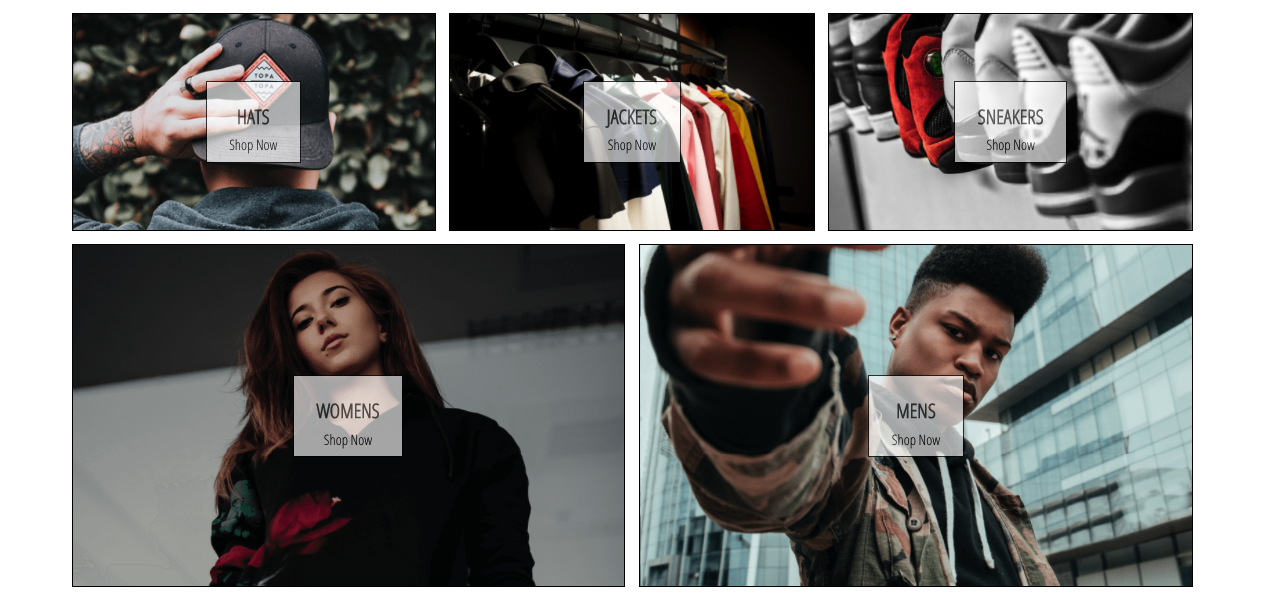
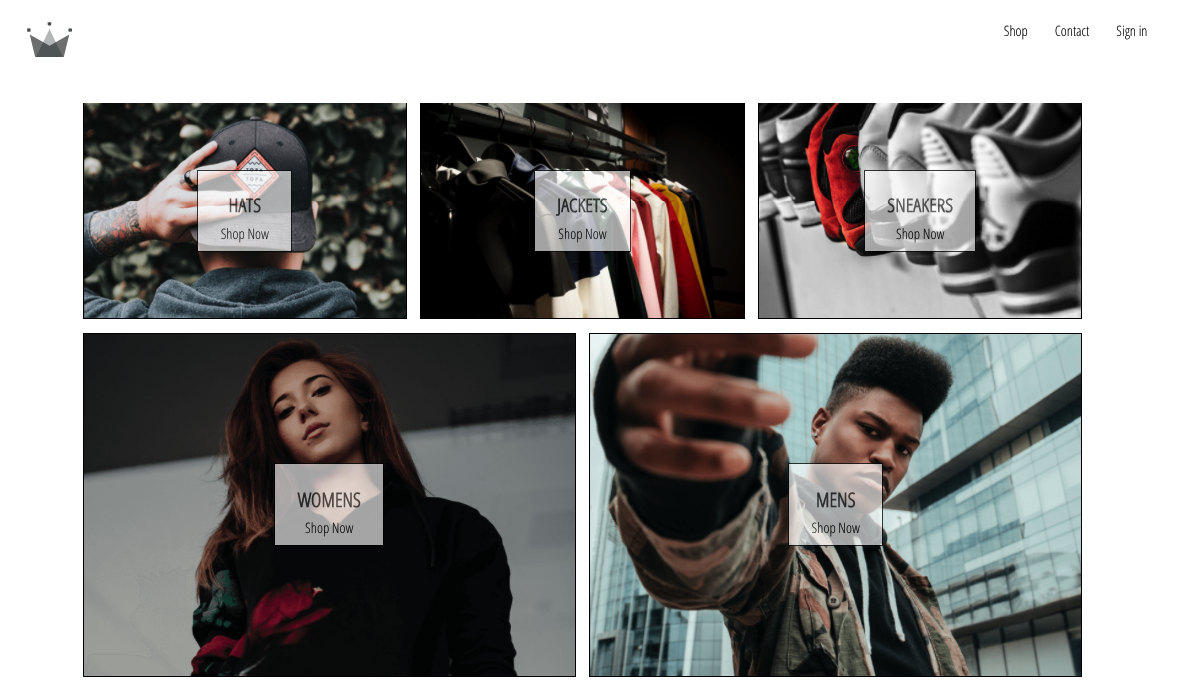
authentication features

diff --git a/src/components/sign-in/sign-in.component.jsx b/src/components/sign-in/sign-in.component.jsx
@@ -1,0 +1,51 @@
+import React from 'react';
+
+import './sign-in.styles.scss';
+
+class SignIn extends React.Component {
+    constructor(props) {
+        super(props);
+
+        this.state = {
+            email: '',
+            password: ''
+        }
+    }
+
+    handleSubmit = (event) => {
+        event.preventDefault();
+        this.setState({ email: '', password: '' })
+    }
+
+    handleChange = (event) => {
+        const {value, name}  = event.target;
+        this.setState({ [name]: value })
+    }
+
+    render(){
+        return (
+            <div className='sign-in'>
+                <h2>I already have an account</h2>
+                <span>Sign in with your email and password</span>
+
+                <form onSubmit={this.handleSubmit}>
+                    <input 
+                        name='email' value={this.state.email} 
+                        required onChange={this.handleChange}
+                    />
+                    <label>Email</label>
+                    
+                    <input 
+                        name='password' value={this.state.password} 
+                        required onChange={this.handleChange}
+                    />
+                    <label>Password</label>
+
+                    <input type='submit' value='Submit Form' />
+                </form>
+            </div>
+        )
+    }
+}
+
+export default SignIn;

diff --git a/src/components/form-input/form-input.styles.scss b/src/components/form-input/form-input.styles.scss
@@ -1,0 +1,54 @@
+$sub-color: grey;
+$main-color: black;
+
+@mixin shrinkLabel {
+  top: -14px;
+  font-size: 12px;
+  color: $main-color;
+}
+
+.group {
+  position: relative;
+  margin: 45px 0;
+
+  .form-input {
+    background: none;
+    background-color: white;
+    color: $sub-color;
+    font-size: 18px;
+    padding: 10px 10px 10px 5px;
+    display: block;
+    width: 100%;
+    border: none;
+    border-radius: 0;
+    border-bottom: 1px solid $sub-color;
+    margin: 25px 0;
+
+    &:focus {
+      outline: none;
+    }
+
+    &:focus ~ .form-input-label {
+      @include shrinkLabel();
+    }
+  }
+
+  input[type='password'] {
+    letter-spacing: 0.3em;
+  }
+
+  .form-input-label {
+    color: $sub-color;
+    font-size: 16px;
+    font-weight: normal;
+    position: absolute;
+    pointer-events: none;
+    left: 5px;
+    top: 10px;
+    transition: 300ms ease all;
+
+    &.shrink {
+      @include shrinkLabel();
+    }
+  }
+}

diff --git a/src/components/header/header.component.jsx b/src/components/header/header.component.jsx
@@ -1,14 +1,29 @@
 import React from 'react';
 import { Link } from 'react-router-dom';
 
+import { ReactComponent as Logo } from '../../assets/crown.svg';
+
 import './header.styles.scss';
 
 const Header = () => {
     return(
         <div className='header'>
-            <Link to='/'>
-                
+            <Link className='logo-container' to='/'>
+                <Logo className='logo' />
             </Link>
+            <div className='options'>
+                <Link className='option' to='/shop'>
+                    Shop
+                </Link>
+                <Link className='option' to='/shop'>
+                    Contact
+                </Link>
+                <Link className='option' to='/signin'>
+                    Sign in
+                </Link>
+            </div>
         </div>
     );
 };
+
+export default Header;

diff --git a/src/App.js b/src/App.js
@@ -1,16 +1,23 @@
 import './App.css';
 import React from 'react';
-import { Route } from 'react-router-dom';
+import { Route, Switch } from 'react-router-dom';
+
 
 import ShopPage from './pages/shop/shop.component';
+import Header from "./components/header/header.component";
 import HomePage from './pages/homepage/homepage.component';
+import SignInAndSignUpPage from './pages/sign-in-and-sign-up/sign-in-and-sign-up.component';
 
 
 function App() {
   return (
     <div>
-      <Route exact path="/" component={HomePage} />
-      <Route path="/shop" component={ShopPage} />
+      <Header />
+      <Switch>
+        <Route exact path="/" component={HomePage} />
+        <Route path="/shop" component={ShopPage} />
+        <Route path="/signin" component={SignInAndSignUpPage} />
+      </Switch>
     </div>
   );
 }

diff --git a/src/components/header/header.styles.scss b/src/components/header/header.styles.scss
@@ -1,0 +1,25 @@
+.header {
+    height: 70px;
+    width: 100%;
+    display: flex;
+    justify-content: space-between;
+    margin-bottom: 25px;
+
+    .logo-container {
+        height: 100%;
+        width: 70px;
+        padding: 25px;
+    }
+
+    .options {
+        width: 50%;
+        height: 100%;
+        display: flex;
+        align-items: center;
+        justify-content: flex-end;
+
+        .option {
+            padding: 10px 15px;
+        }
+    }
+}

diff --git a/src/pages/sign-in-and-sign-up/sign-in-and-sign-up.component.jsx b/src/pages/sign-in-and-sign-up/sign-in-and-sign-up.component.jsx
@@ -1,0 +1,15 @@
+import React from 'react';
+
+import './sign-in-and-sign-up.styles.scss';
+
+import SignIn from '../../components/sign-in/sign-in.component';
+
+const SignInAndSignUpPage = () => {
+    return (
+        <div className='sign-in-and-sign-up'>
+            <SignIn />
+        </div>
+    );
+};
+
+export default SignInAndSignUpPage;

diff --git a/src/components/form-input/form-input.component.jsx b/src/components/form-input/form-input.component.jsx
@@ -1,0 +1,11 @@
+import React from 'react';
+
+import './form-input.styles.scss';
+
+const FormInput = ({ handleChange, label, ...otherProps}) => {
+    return (
+        <div className='group'>
+            <input className='form-input' onChange={handleChange} />
+        </div>
+    );
+};

diff --git a/src/App.css b/src/App.css
@@ -2,3 +2,8 @@ body{
     padding: 20px 60px;
     font-family: 'Open Sans Condensed';
 }
+
+a {
+    text-decoration: none;
+    color: black;
+}
